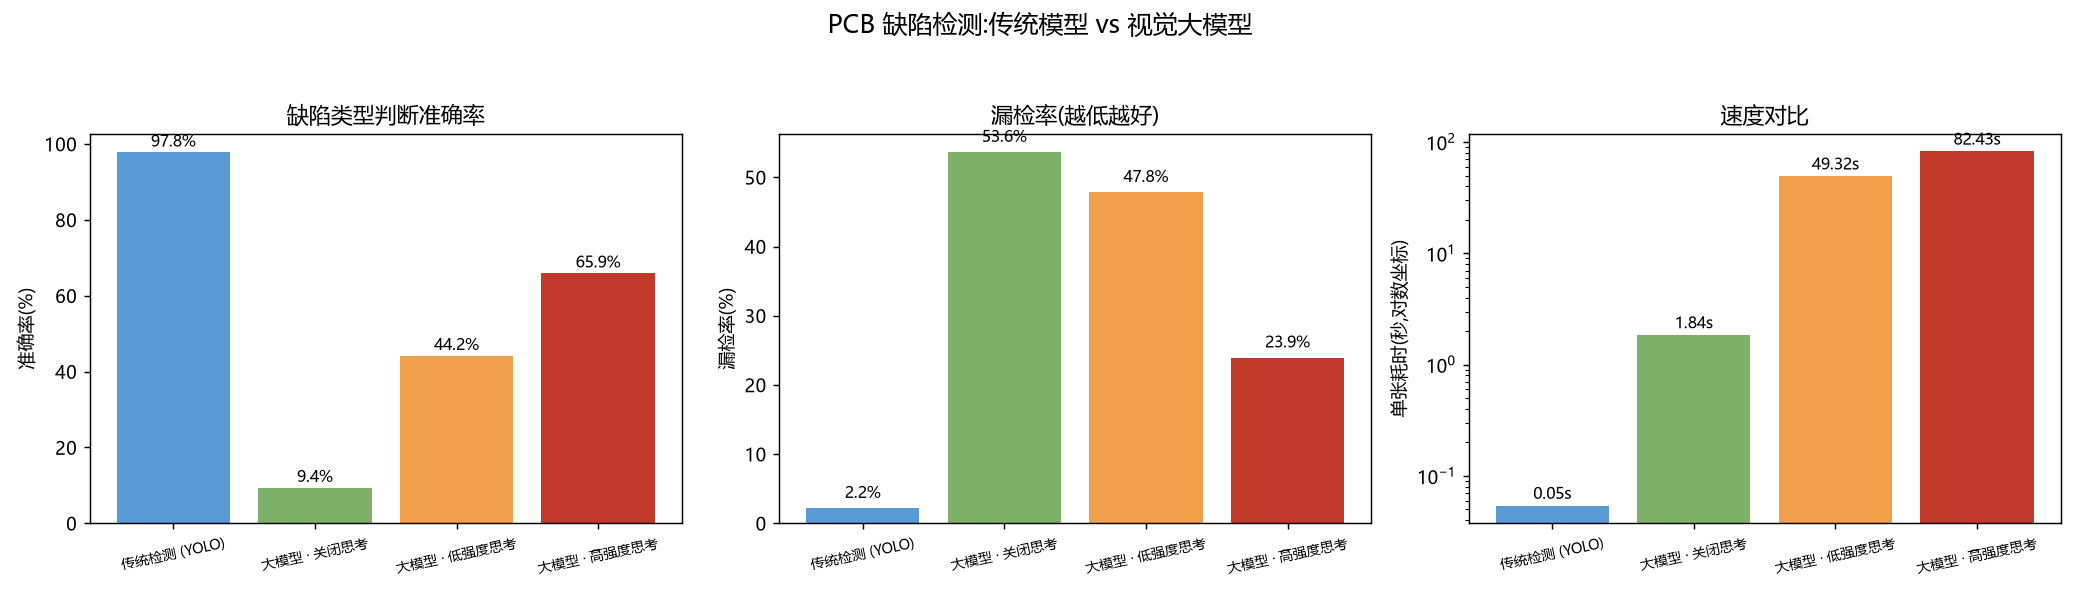
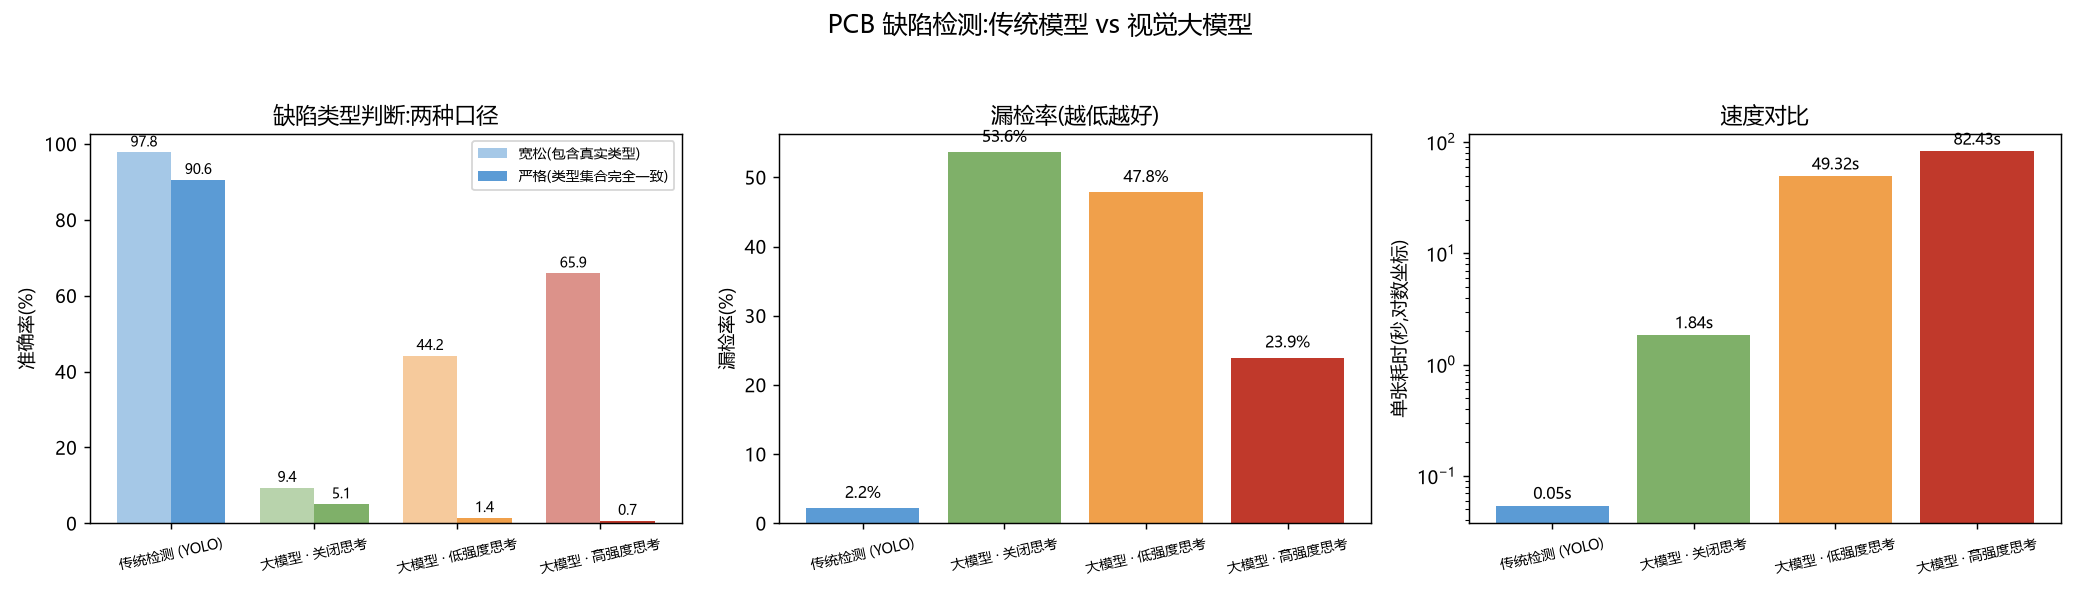
docs: 同步修正后的指标与图示
对比表改用严格命中与精确率,补充指标口径说明、两条局限(验证集选择偏差、大模型不可复现)及更新后的图表。

diff --git a/docs/实验结果.md b/docs/实验结果.md
@@ -85,12 +85,24 @@
 
 ## 五、量化对比
 
-| 方法 | 类型判断准确率 | 漏检率 | 数量误差 | 误报类型数 | 定位误差 | 单张耗时 |
-| --- | --- | --- | --- | --- | --- | --- |
-| **传统检测(YOLO)** | **97.8%** | **2.2%** | 0.33 | 0.07 | **0.003** | **0.054 秒** |
-| 大模型 · 关闭思考 | 9.4% | 53.6% | 3.25 | 0.57 | 0.218 | 1.85 秒 |
-| 大模型 · 低强度思考 | 44.2% | 47.8% | 2.92 | 2.16 | 0.249 | 49.3 秒 |
-| 大模型 · 高强度思考 | 65.9% | 23.9% | 2.90 | 3.25 | 0.251 | 82.4 秒 |
+类型判断用**两种口径**统计,这一点很重要:
+
+* **宽松命中**:只要预测的类型里包含真实类型就算对——这个口径会奖励"多报";
+* **严格命中**:预测出的类型集合必须与真实集合完全一致;
+* **类型精确率**:报出的类型里有多少是正确的(**衡量误报**);
+* **类型召回率**:真实类型有多少被报出来(**衡量漏报**)。
+
+| 方法 | 宽松命中 | 严格命中 | 类型精确率 | 类型召回率 | 漏检率 | 数量误差 | 定位误差 | 单张耗时 |
+| --- | --- | --- | --- | --- | --- | --- | --- | --- |
+| **传统检测(YOLO)** | **97.8%** | **90.6%** | **93.1%** | **97.8%** | **2.2%** | 0.33 | **0.003** | **0.054 秒** |
+| 大模型 · 关闭思考 | 9.4% | 5.1% | 14.3% | 9.4% | 53.6% | 3.25 | 0.218 | 1.85 秒 |
+| 大模型 · 低强度思考 | 44.2% | 1.4% | 17.0% | 44.2% | 47.8% | 2.92 | 0.249 | 49.3 秒 |
+| 大模型 · 高强度思考 | 65.9% | **0.7%** | **16.9%** | 65.9% | 23.9% | 2.90 | 0.251 | 82.4 秒 |
+
+> **为什么必须补上严格口径:** 高强度思考的 138 张里有 **65 张把 6 类缺陷全报了一遍**。
+> 用宽松口径时,这些"全报"会被算成命中,于是得到 65.9% 的假象;
+> 换成严格口径只有 0.7%。**它的"高命中"是拿大量误报堆出来的**——
+> 类型精确率 16.9% 说明它报出的类型里约八成是错的。
 
 ![方法对比](figures/method_comparison.png)
 
@@ -112,8 +124,9 @@
 
 ### 1. 传统模型在精度、速度、定位三个维度全面领先
 
-类型判断 97.8% 对最高 65.9%;漏检率 2.2% 对 23.9%;定位误差 0.003 对 0.251
-(相差约 80 倍);单张耗时 0.054 秒对 82.4 秒(**约 1500 倍**)。
+严格命中 90.6% 对最高 **0.7%**;类型精确率 93.1% 对 **16.9%**;
+漏检率 2.2% 对 23.9%;定位误差 0.003 对 0.251(相差约 80 倍);
+单张耗时 0.054 秒对 82.4 秒(**约 1500 倍**)。
 
 ### 2. 大模型的"思考强度"是真实的成本-质量权衡
 
@@ -123,9 +136,11 @@
 
 ### 3. 两个与预期相反的发现
 
-**第一,想得越多,误报反而越多。** 关闭思考时平均误报 0.57 种类型,
-高强度思考时涨到 3.25 种。它在"努力推理"时会更倾向于给出一个判断,
-即使证据不足——这与"想得越多越谨慎"的直觉相反。
+**第一,想得越多,报得越多,但精确率没提高。** 关闭思考时平均误报 0.57 种类型,
+高强度思考时涨到 3.25 种;召回率从 9.4% 升到 65.9%,
+但**类型精确率始终只有 14%~17%**——也就是说,它多报出来的东西里
+绝大部分是错的。这解释了为什么"宽松命中"看起来很漂亮,严格口径却只有 0.7%:
+**高召回是靠牺牲精确率换来的。**
 
 **第二,长思考请求的工程可靠性更差。** 高强度组有 6 张因网络传输中断失败。
 这不是模型能力问题,而是"请求时间越长、被中断的概率越高"——

diff --git a/docs/项目说明.md b/docs/项目说明.md
@@ -76,12 +76,16 @@
 
 两种方案在 **138 张验证集**上的对比(大模型取表现最好的一档):
 
-| 方法 | 类型判断准确率 | 漏检率 | 数量误差 | 定位误差 | 单张耗时 |
+| 方法 | 严格命中 | 类型精确率 | 漏检率 | 定位误差 | 单张耗时 |
 | --- | --- | --- | --- | --- | --- |
-| **传统检测(YOLO)** | **97.8%** | **2.2%** | 0.33 | **0.003** | **0.054 秒** |
-| 大模型 · 关闭思考 | 9.4% | 53.6% | 3.25 | 0.218 | 1.85 秒 |
-| 大模型 · 低强度思考 | 44.2% | 47.8% | 2.92 | 0.249 | 49.3 秒 |
-| 大模型 · 高强度思考 | 65.9% | 23.9% | 2.90 | 0.251 | 82.4 秒 |
+| **传统检测(YOLO)** | **90.6%** | **93.1%** | **2.2%** | **0.003** | **0.054 秒** |
+| 大模型 · 关闭思考 | 5.1% | 14.3% | 53.6% | 0.218 | 1.85 秒 |
+| 大模型 · 低强度思考 | 1.4% | 17.0% | 47.8% | 0.249 | 49.3 秒 |
+| 大模型 · 高强度思考 | **0.7%** | **16.9%** | 23.9% | 0.251 | 82.4 秒 |
+
+> 表中"严格命中"指预测的类型集合与真实集合完全一致。若只要求"包含真实类型",
+> 高强度档看起来有 65.9%——但它在 65 张图上把 6 类缺陷全报了一遍,
+> **高命中是大量误报堆出来的**,所以本文统一采用严格口径与精确率。
 
 ![方法对比](figures/method_comparison.png)
 
@@ -98,17 +102,23 @@
    为严重程度划分提供客观依据;
 4. **多维对比而非单一指标**:除准确率外,还比较漏检率、数量误差、误报类型数、
    定位误差、耗时与成本;
-5. **两个与直觉相反的发现**:大模型思考越多误报反而越多;长思考请求更容易因网络中断失败。
+5. **指标口径的反思**:发现"只要包含真实类型就算对"的宽松口径会被"全报一遍"钻空子,
+   因此同时给出严格命中率与类型精确率,避免得出虚假的高分;
+   另外还发现大模型思考越多误报越多、长思考请求更容易因网络中断失败。
 
 ## 七、局限与改进方向
 
 1. **对比并不完全对等**:传统模型用了 555 张标注图训练,而大模型是零样本。
    这个差异正是结论的一部分——"有标注时专用模型更强",但如果一开始没有标注,
    大模型仍能在无训练成本的情况下给出大致判断;
-2. **数据集规模偏小**:693 张图、单一来源,泛化性没有验证;
-3. **SAM 掩膜只做了面积统计**,没有对掩膜质量做定量评估(如 IoU);
-4. **只测了一个大模型**:不同厂商的视觉模型能力差异较大,结论只适用于 DeepSeek;
-5. **API 的价格与版本会变化**,实验成本数字只代表测试当时的情况。
+2. **验证集存在选择偏差**:YOLO 的最佳权重是按验证集挑选的,随后又在同一验证集上
+   评估,指标会略偏乐观;更严谨的做法是另留一份独立测试集;
+3. **大模型结果不完全可复现**:思考模式下不支持 temperature,
+   同一张图多次调用可能给出不同答案,本次没有做多次采样取平均;
+4. **数据集规模偏小**:693 张图、单一来源,泛化性没有验证;
+5. **SAM 掩膜只做了面积统计**,没有对掩膜质量做定量评估(如 IoU);
+6. **只测了一个大模型**:不同厂商的视觉模型能力差异较大,结论只适用于 DeepSeek;
+7. **API 的价格与版本会变化**,实验成本数字只代表测试当时的情况。
 
 ## 八、个人感悟
 

diff --git a/README.md b/README.md
@@ -31,12 +31,16 @@ uv run scripts/download_dataset.py
 
 两种方案在同一批 **138 张验证集图片**上的对比(大模型取表现最好的一档):
 
-| 方法 | 类型判断准确率 | 漏检率 | 数量误差 | 定位误差 | 单张耗时 |
+| 方法 | 严格命中 | 类型精确率 | 漏检率 | 定位误差 | 单张耗时 |
 | --- | --- | --- | --- | --- | --- |
-| **传统检测(YOLO)** | **97.8%** | **2.2%** | 0.33 | **0.003** | **0.054 秒** |
-| 大模型 · 关闭思考 | 9.4% | 53.6% | 3.25 | 0.218 | 1.85 秒 |
-| 大模型 · 低强度思考 | 44.2% | 47.8% | 2.92 | 0.249 | 49.3 秒 |
-| 大模型 · 高强度思考 | 65.9% | 23.9% | 2.90 | 0.251 | 82.4 秒 |
+| **传统检测(YOLO)** | **90.6%** | **93.1%** | **2.2%** | **0.003** | **0.054 秒** |
+| 大模型 · 关闭思考 | 5.1% | 14.3% | 53.6% | 0.218 | 1.85 秒 |
+| 大模型 · 低强度思考 | 1.4% | 17.0% | 47.8% | 0.249 | 49.3 秒 |
+| 大模型 · 高强度思考 | **0.7%** | **16.9%** | 23.9% | 0.251 | 82.4 秒 |
+
+> "严格命中"要求预测的缺陷类型集合与真实集合完全一致。若只统计"包含真实类型",
+> 高强度档看似有 65.9%,但它在 65 张图上把 6 类缺陷全报了一遍,
+> 属于用大量误报换召回,因此这里统一采用严格口径与精确率。
 
 ![方法对比](docs/figures/method_comparison.png)
 
